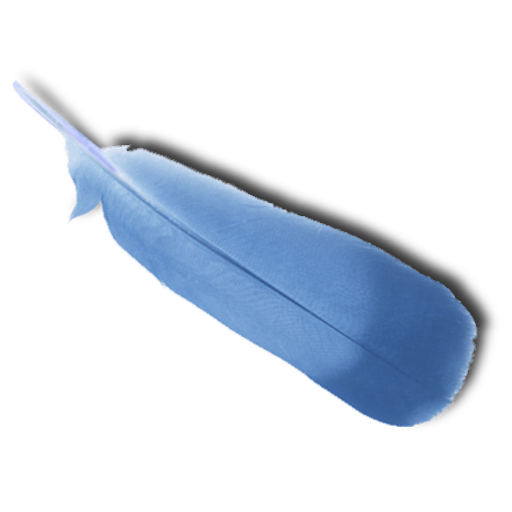
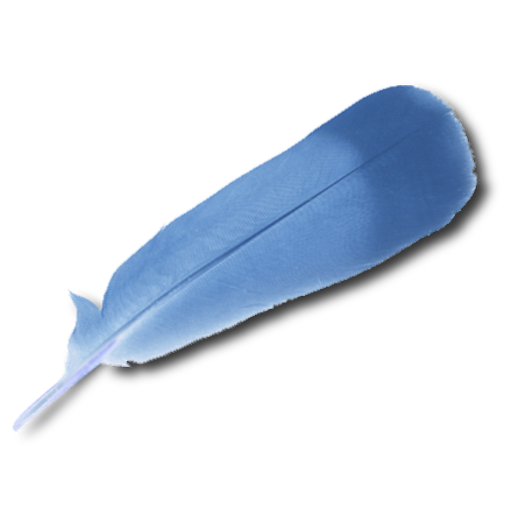
Fix upside down images.

diff --git a/macosx/tkMacOSXImage.c b/macosx/tkMacOSXImage.c
@@ -1548,7 +1548,8 @@ TkMacOSXNSImageDisplay(
     if (TkMacOSXSetupDrawingContext(drawable, NULL, &dc)) {
 	if (dc.context) {
 	    NSGraphicsContext *savedContext = NSGraphicsContext.currentContext;
-	    NSGraphicsContext.currentContext = GET_NSCONTEXT(dc.context, YES);
+	    NSGraphicsContext.currentContext = [NSGraphicsContext
+		graphicsContextWithCGContext:dc.context flipped:YES];
 	    [image drawInRect:dstRect
 		     fromRect:srcRect
 		    operation:NSCompositeSourceOver
@@ -1631,8 +1632,7 @@ TkMacOSXNSImageDelete(
  *	the interp's result if an error occurs.
  *
  * Side effects:
- *	Creates the command:
- *      image create system -source ?-width? ?-height? ?-alpha? ?-pressed?
+ *	Creates the image create nsrect ...  command.
  *
  *----------------------------------------------------------------------
  */